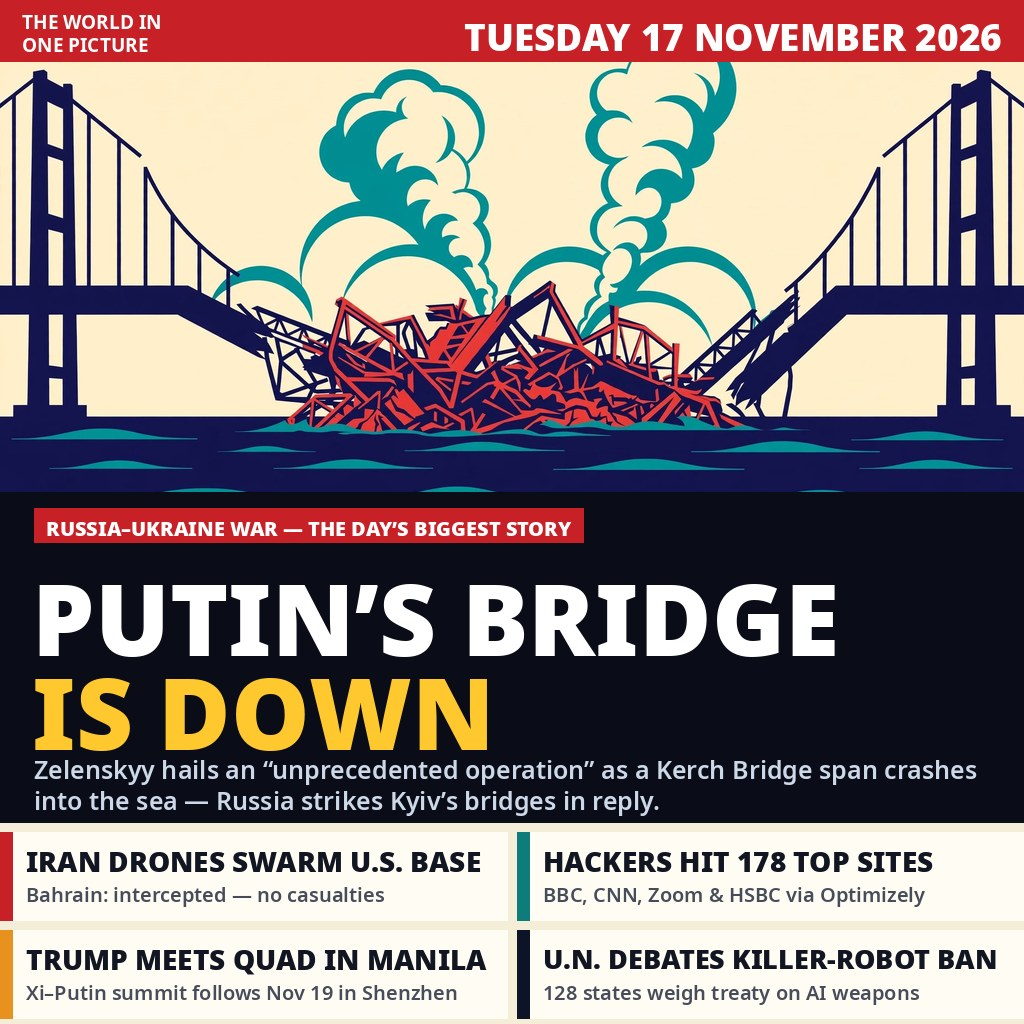
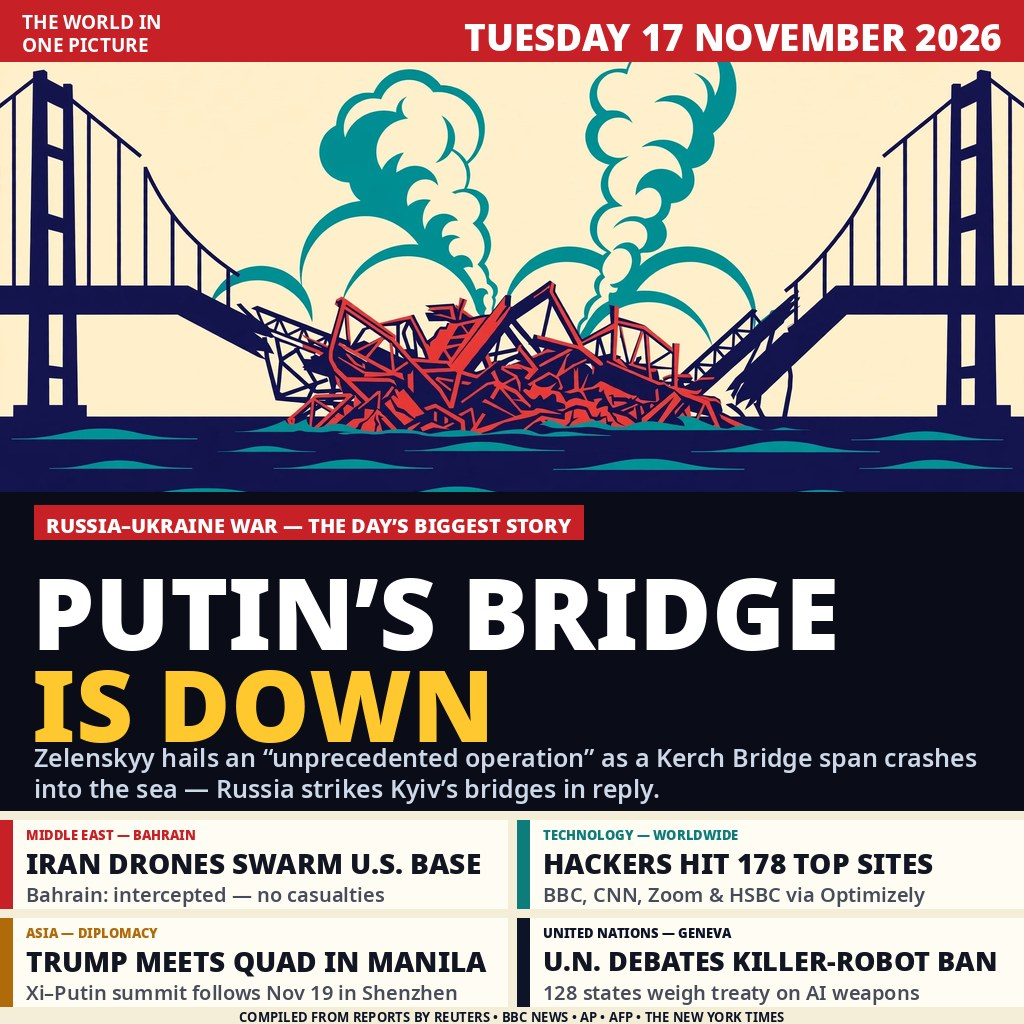
Scroll-stopper polish: region tags on secondary stories, sources folio
Each secondary story gains a colour-coded region tag (Middle East,
Technology, Asia, United Nations); headline block tightened; folio
line credits Reuters, BBC News, AP, AFP and NYT reports.

diff --git a/README.md b/README.md
@@ -5,7 +5,7 @@ Entry for the make.fun competition **news-image-20261117**
 
 `main.py` (Python 3.13, standard library only) copies the finished
 image held in this repository to `/output/entry.png`. The image is a
-1024×1024 JPEG (238,878 bytes, under the 1 MiB cap) stored under the
+1024×1024 JPEG (253,057 bytes, under the 1 MiB cap) stored under the
 name `entry.png`, as the rules allow — the gate tells PNG from JPEG
 by the file's first bytes. Two runs write byte-identical output.
 
